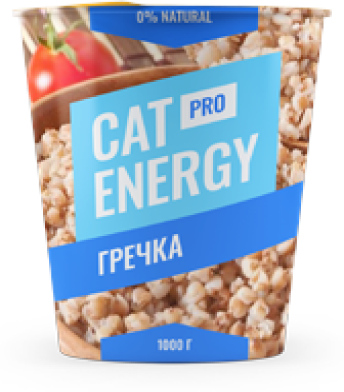
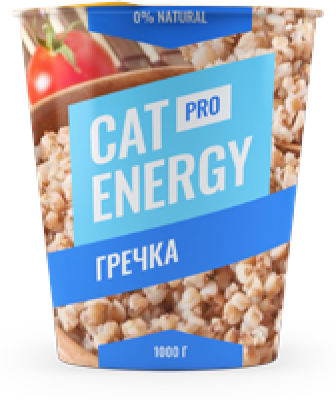
Ошибка Б20. Добавляет изображения для текстопной версии каталога. Исправляет стили на десктопной версии для новых иозбражений

diff --git a/source/catalog.html b/source/catalog.html
@@ -41,9 +41,12 @@
           <li class="catalog__item catalog-card">
             <div class="catalog-card__image-wrapper">
               <picture>
+                <source media="(min-width: 1440px)" srcset="img/shop/cat-energy-pro-500-chicken-desktop.webp, img/shop/cat-energy-pro-500-chicken-desktop@2x.webp 2x" type="image/webp">
                 <source media="(min-width: 768px)" srcset="img/shop/cat-energy-pro-500-chicken-tablet.webp, img/shop/cat-energy-pro-500-chicken-tablet@2x.webp 2x" type="image/webp">
                 <source srcset="img/shop/cat-energy-pro-500-chicken.webp, img/shop/cat-energy-pro-500-chicken@2x.webp 2x" type="image/webp">
-                <source media="(min-width: 768px)" srcset="img/shop/cat-energy-pro-500-chicken-tablet.png, img/shop/cat-energy-pro-500-chicken-tablet@2x.png 2x"><img class="catalog-card__image" src="img/shop/cat-energy-pro-500-chicken.png" srcset="img/shop/cat-energy-pro-500-chicken.png, img/shop/cat-energy-pro-500-chicken@2x.png 2x" width="140" height="112" alt="Cat Energy PRO 500 грамм со вкусом курицы."></picture>
+                <source media="(min-width: 1440px)" srcset="img/shop/cat-energy-pro-500-chicken-desktop.png, img/shop/cat-energy-pro-500-chicken-desktop@2x.png 2x">
+                <source media="(min-width: 768px)" srcset="img/shop/cat-energy-pro-500-chicken-tablet.png, img/shop/cat-energy-pro-500-chicken-tablet@2x.png 2x">
+                <img class="catalog-card__image" src="img/shop/cat-energy-pro-500-chicken.png" srcset="img/shop/cat-energy-pro-500-chicken.png, img/shop/cat-energy-pro-500-chicken@2x.png 2x" width="140" height="112" alt="Cat Energy PRO 500 грамм со вкусом курицы."></picture>
             </div>
             <div class="catalog-card__description">
               <h3 class="catalog-card__description-title">Cat Energy PRO 500 г</h3>
@@ -66,9 +69,12 @@
           <li class="catalog__item catalog-card">
             <div class="catalog-card__image-wrapper">
               <picture>
+                <source media="(min-width: 1440px)" srcset="img/shop/cat-energy-pro-1000-chicken-desktop.webp, img/shop/cat-energy-pro-1000-chicken-desktop@2x.webp 2x" type="image/webp">
                 <source media="(min-width: 768px)" srcset="img/shop/cat-energy-pro-1000-chicken-tablet.webp, img/shop/cat-energy-pro-1000-chicken-tablet@2x.webp 2x" type="image/webp">
                 <source srcset="img/shop/cat-energy-pro-1000-chicken.webp, img/shop/cat-energy-pro-1000-chicken@2x.webp 2x" type="image/webp">
-                <source media="(min-width: 768px)" srcset="img/shop/cat-energy-pro-1000-chicken-tablet.png, img/shop/cat-energy-pro-1000-chicken-tablet@2x.png 2x"><img class="catalog-card__image" src="img/shop/cat-energy-pro-1000-chicken.png" srcset="img/shop/cat-energy-pro-1000-chicken.png, img/shop/cat-energy-pro-1000-chicken@2x.png 2x" width="140" height="112" alt="Cat Energy PRO 1000 грамм со вкусом курицы."></picture>
+                <source media="(min-width: 1440px)" srcset="img/shop/cat-energy-pro-1000-chicken-desktop.png, img/shop/cat-energy-pro-1000-chicken-desktop@2x.png 2x">
+                <source media="(min-width: 768px)" srcset="img/shop/cat-energy-pro-1000-chicken-tablet.png, img/shop/cat-energy-pro-1000-chicken-tablet@2x.png 2x">
+                <img class="catalog-card__image" src="img/shop/cat-energy-pro-1000-chicken.png" srcset="img/shop/cat-energy-pro-1000-chicken.png, img/shop/cat-energy-pro-1000-chicken@2x.png 2x" width="140" height="112" alt="Cat Energy PRO 1000 грамм со вкусом курицы."></picture>
             </div>
             <div class="catalog-card__description">
               <h3 class="catalog-card__description-title">Cat Energy PRO 1000 г</h3>
@@ -91,9 +97,13 @@
           <li class="catalog__item catalog-card">
             <div class="catalog-card__image-wrapper">
               <picture>
+                <source media="(min-width: 1440px)" srcset="img/shop/cat-energy-pro-500-fish-desktop.webp, img/shop/cat-energy-pro-500-fish-desktop@2x.webp 2x" type="image/webp">
                 <source media="(min-width: 768px)" srcset="img/shop/cat-energy-pro-500-fish-tablet.webp, img/shop/cat-energy-pro-500-fish-tablet@2x.webp 2x" type="image/webp">
                 <source srcset="img/shop/cat-energy-pro-500-fish.webp, img/shop/cat-energy-pro-500-fish@2x.webp 2x" type="image/webp">
-                <source media="(min-width: 768px)" srcset="img/shop/cat-energy-pro-500-fish-tablet.png, img/shop/cat-energy-pro-500-fish-tablet@2x.png 2x"><img class="catalog-card__image" src="img/shop/cat-energy-pro-500-fish.png" srcset="img/shop/cat-energy-pro-500-fish.png, img/shop/cat-energy-pro-500-fish@2x.png 2x" width="140" height="112" alt="Cat Energy PRO 500 грамм со вкусом рыбы."></picture>
+                <source media="(min-width: 1440px)" srcset="img/shop/cat-energy-pro-500-fish-desktop.png, img/shop/cat-energy-pro-500-fish-desktop@2x.png 2x">
+                <source media="(min-width: 768px)" srcset="img/shop/cat-energy-pro-500-fish-tablet.png, img/shop/cat-energy-pro-500-fish-tablet@2x.png 2x">
+                <img class="catalog-card__image" src="img/shop/cat-energy-pro-500-fish.png" srcset="img/shop/cat-energy-pro-500-fish.png, img/shop/cat-energy-pro-500-fish@2x.png 2x" width="140" height="112" alt="Cat Energy PRO 500 грамм со вкусом рыбы.">
+              </picture>
             </div>
             <div class="catalog-card__description">
               <h3 class="catalog-card__description-title">Cat Energy PRO 500 г</h3>
@@ -116,9 +126,13 @@
           <li class="catalog__item catalog-card">
             <div class="catalog-card__image-wrapper">
               <picture>
+                <source media="(min-width: 1440px)" srcset="img/shop/cat-energy-pro-1000-fish-desktop.webp, img/shop/cat-energy-pro-1000-fish-desktop@2x.webp 2x" type="image/webp">
                 <source media="(min-width: 768px)" srcset="img/shop/cat-energy-pro-1000-fish-tablet.webp, img/shop/cat-energy-pro-1000-fish-tablet@2x.webp 2x" type="image/webp">
                 <source srcset="img/shop/cat-energy-pro-1000-fish.webp, img/shop/cat-energy-pro-1000-fish@2x.webp 2x" type="image/webp">
-                <source media="(min-width: 768px)" srcset="img/shop/cat-energy-pro-1000-fish-tablet.png, img/shop/cat-energy-pro-1000-fish-tablet@2x.png 2x"><img class="catalog-card__image" src="img/shop/cat-energy-pro-1000-fish.png" srcset="img/shop/cat-energy-pro-1000-fish.png, img/shop/cat-energy-pro-1000-fish@2x.png 2x" width="140" height="112" alt="Cat Energy PRO 1000 грамм со вкусом рыбы."></picture>
+                <source media="(min-width: 1440px)" srcset="img/shop/cat-energy-pro-1000-fish-desktop.png, img/shop/cat-energy-pro-1000-fish-desktop@2x.png 2x">
+                <source media="(min-width: 768px)" srcset="img/shop/cat-energy-pro-1000-fish-tablet.png, img/shop/cat-energy-pro-1000-fish-tablet@2x.png 2x">
+                <img class="catalog-card__image" src="img/shop/cat-energy-pro-1000-fish.png" srcset="img/shop/cat-energy-pro-1000-fish.png, img/shop/cat-energy-pro-1000-fish@2x.png 2x" width="140" height="112" alt="Cat Energy PRO 1000 грамм со вкусом рыбы.">
+              </picture>
             </div>
             <div class="catalog-card__description">
               <h3 class="catalog-card__description-title">Cat Energy PRO 1000 г</h3>
@@ -141,9 +155,12 @@
           <li class="catalog__item catalog-card">
             <div class="catalog-card__image-wrapper">
               <picture>
+                <source media="(min-width: 1440px)" srcset="img/shop/cat-energy-slim-500-buckwheat-desktop.webp, img/shop/cat-energy-slim-500-buckwheat-desktop@2x.webp 2x" type="image/webp">
                 <source media="(min-width: 768px)" srcset="img/shop/cat-energy-slim-500-buckwheat-tablet.webp, img/shop/cat-energy-slim-500-buckwheat-tablet@2x.webp 2x" type="image/webp">
                 <source srcset="img/shop/cat-energy-slim-500-buckwheat.webp, img/shop/cat-energy-slim-500-buckwheat@2x.webp 2x" type="image/webp">
-                <source media="(min-width: 768px)" srcset="img/shop/cat-energy-slim-500-buckwheat-tablet.png, img/shop/cat-energy-slim-500-buckwheat-tablet@2x.png 2x"><img class="catalog-card__image" src="img/shop/cat-energy-slim-500-buckwheat.png" srcset="img/shop/cat-energy-slim-500-buckwheat.png, img/shop/cat-energy-slim-500-buckwheat@2x.png 2x" width="140" height="112" alt="Cat Energy SLIM 500 грамм со вкусом гречки."></picture>
+                <source media="(min-width: 1440px)" srcset="img/shop/cat-energy-slim-500-buckwheat-desktop.png, img/shop/cat-energy-slim-500-buckwheat-desktop@2x.png 2x">
+                <source media="(min-width: 768px)" srcset="img/shop/cat-energy-slim-500-buckwheat-tablet.png, img/shop/cat-energy-slim-500-buckwheat-tablet@2x.png 2x">
+                <img class="catalog-card__image" src="img/shop/cat-energy-slim-500-buckwheat.png" srcset="img/shop/cat-energy-slim-500-buckwheat.png, img/shop/cat-energy-slim-500-buckwheat@2x.png 2x" width="140" height="112" alt="Cat Energy SLIM 500 грамм со вкусом гречки."></picture>
             </div>
             <div class="catalog-card__description">
               <h3 class="catalog-card__description-title">Cat Energy SLIM 500 г</h3>
@@ -166,9 +183,13 @@
           <li class="catalog__item catalog-card">
             <div class="catalog-card__image-wrapper">
               <picture>
+                <source media="(min-width: 1440px)" srcset="img/shop/cat-energy-slim-1000-buckwheat-desktop.webp, img/shop/cat-energy-slim-1000-buckwheat-desktop@2x.webp 2x" type="image/webp">
                 <source media="(min-width: 768px)" srcset="img/shop/cat-energy-slim-1000-buckwheat-tablet.webp, img/shop/cat-energy-slim-1000-buckwheat-tablet@2x.webp 2x" type="image/webp">
                 <source srcset="img/shop/cat-energy-slim-1000-buckwheat.webp, img/shop/cat-energy-slim-1000-buckwheat@2x.webp 2x" type="image/webp">
-                <source media="(min-width: 768px)" srcset="img/shop/cat-energy-slim-1000-buckwheat-tablet.png, img/shop/cat-energy-slim-1000-buckwheat-tablet@2x.png 2x"><img class="catalog-card__image" src="img/shop/cat-energy-slim-1000-buckwheat.png" srcset="img/shop/cat-energy-slim-1000-buckwheat.png, img/shop/cat-energy-slim-1000-buckwheat@2x.png 2x" width="140" height="112" alt="Cat Energy SLIM 1000 грамм со вкусом гречки"></picture>
+                <source media="(min-width: 1440px)" srcset="img/shop/cat-energy-slim-1000-buckwheat-desktop.png, img/shop/cat-energy-slim-1000-buckwheat-desktop@2x.png 2x">
+                <source media="(min-width: 768px)" srcset="img/shop/cat-energy-slim-1000-buckwheat-tablet.png, img/shop/cat-energy-slim-1000-buckwheat-tablet@2x.png 2x">
+                <img class="catalog-card__image" src="img/shop/cat-energy-slim-1000-buckwheat.png" srcset="img/shop/cat-energy-slim-1000-buckwheat.png, img/shop/cat-energy-slim-1000-buckwheat@2x.png 2x" width="140" height="112" alt="Cat Energy SLIM 1000 грамм со вкусом гречки">
+              </picture>
             </div>
             <div class="catalog-card__description">
               <h3 class="catalog-card__description-title">Cat Energy SLIM 1000 г</h3>
@@ -191,9 +212,13 @@
           <li class="catalog__item catalog-card">
             <div class="catalog-card__image-wrapper">
               <picture>
+                <source media="(min-width: 1440px)" srcset="img/shop/cat-energy-slim-500-rice-desktop.webp, img/shop/cat-energy-slim-500-rice-desktop@2x.webp 2x" type="image/webp">
                 <source media="(min-width: 768px)" srcset="img/shop/cat-energy-slim-500-rice-tablet.webp, img/shop/cat-energy-slim-500-rice-tablet@2x.webp 2x" type="image/webp">
                 <source srcset="img/shop/cat-energy-slim-500-rice.webp, img/shop/cat-energy-slim-500-rice@2x.webp 2x" type="image/webp">
-                <source media="(min-width: 768px)" srcset="img/shop/cat-energy-slim-500-rice-tablet.png, img/shop/cat-energy-slim-500-rice-tablet@2x.png 2x"><img class="catalog-card__image" src="img/shop/cat-energy-slim-500-rice.png" srcset="img/shop/cat-energy-slim-500-rice.png, img/shop/cat-energy-slim-500-rice@2x.png 2x" width="140" height="112" alt="Cat Energy SLIM 500 грамм со вкусом риса."></picture>
+                <source media="(min-width: 1440px)" srcset="img/shop/cat-energy-slim-500-rice-desktop.png, img/shop/cat-energy-slim-500-rice-desktop@2x.png 2x">
+                <source media="(min-width: 768px)" srcset="img/shop/cat-energy-slim-500-rice-tablet.png, img/shop/cat-energy-slim-500-rice-tablet@2x.png 2x">
+                <img class="catalog-card__image" src="img/shop/cat-energy-slim-500-rice.png" srcset="img/shop/cat-energy-slim-500-rice.png, img/shop/cat-energy-slim-500-rice@2x.png 2x" width="140" height="112" alt="Cat Energy SLIM 500 грамм со вкусом риса.">
+              </picture>
             </div>
             <div class="catalog-card__description">
               <h3 class="catalog-card__description-title">Cat Energy SLIM 500 г</h3>

diff --git a/source/sass/blocks/catalog-card.scss b/source/sass/blocks/catalog-card.scss
@@ -24,8 +24,15 @@
   align-items: center;
 
   @media (min-width: $screen-tablet) {
+    display: flex;
+    align-items: flex-end;
     width: 100%;
     min-height: 200px;
+    margin-bottom: 30px;
+  }
+
+  @media (min-width: $screen-desktop) {
+    margin-bottom: 44px;
   }
 }
 
@@ -33,11 +40,10 @@
   @media (min-width: $screen-tablet) {
     width: auto;
     height: 200px;
-    margin-bottom: 30px;
   }
 
   @media (min-width: $screen-desktop) {
-    margin-bottom: 40px;
+    height: 196px;
   }
 }
 

diff --git a/source/sass/blocks/show-more.scss b/source/sass/blocks/show-more.scss
@@ -36,7 +36,7 @@
 
   @media (min-width: $screen-desktop) {
     margin-top: 0;
-    padding: 160px 36px 37px;
+    padding: 159px 36px 39px;
   }
 }
 
